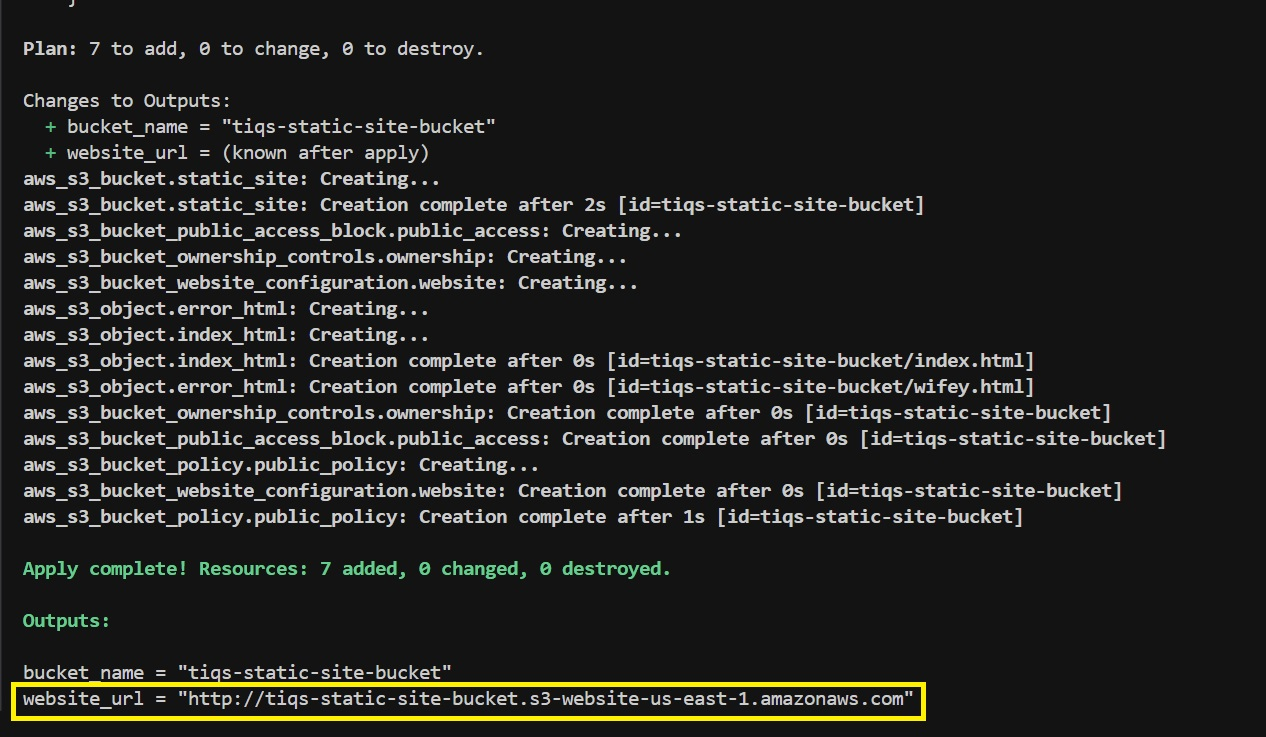
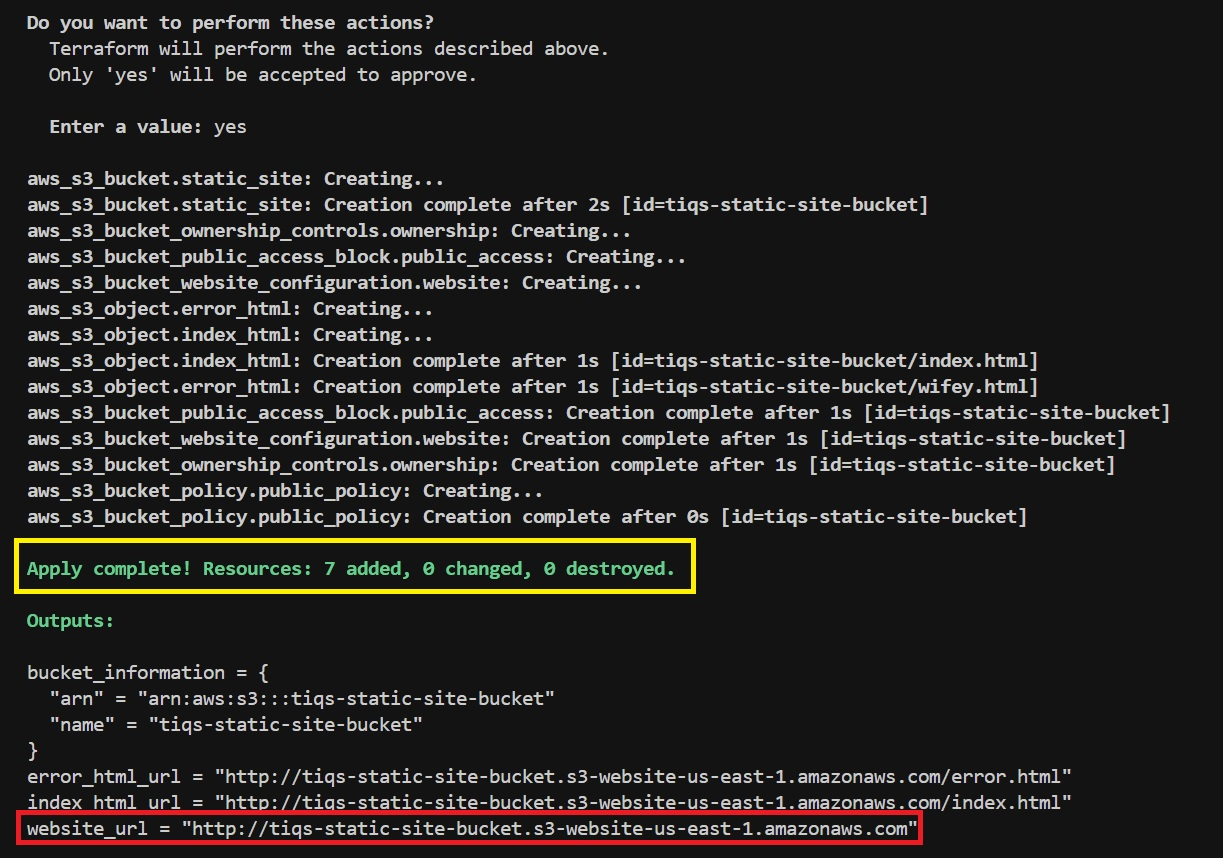
third commit

Changed region(s): [[0.0, 0.1248, 0.9632, 0.9986], [0.0, 0.0, 0.4971, 0.0936]]

diff --git a/README.md b/README.md
@@ -14,6 +14,10 @@
 
 This project deploys a fully animated **Argentina-themed static website** to **AWS S3** using **Terraform**, featuring background music, an interactive carousel, shimmering text, and glowing flag-color effects. The deployment follows modern AWS best practices including **Bucket Owner Enforced** (no ACLs) and fully automated provisioning using Infrastructure as Code.
 
+![diagram.png](/Screenshots/diagram.png)
+
+---
+
 ### 🌍 Why S3 Static Websites Matter
 
 S3 is one of the most effective platforms for hosting static websites because it provides:
@@ -67,6 +71,17 @@ terraform apply -auto-approve
 ![terraform-plan.jpg](/Screenshots/terraform-plan.jpg)
 ![terraform-apply.jpg](/Screenshots/terraform-apply.jpg)
 
+```plaintext
+bucket_information = {
+  "arn" = "arn:aws:s3:::tiqs-static-site-bucket"
+  "name" = "tiqs-static-site-bucket"
+}
+
+error_html_url = "http://tiqs-static-site-bucket.s3-website-us-east-1.amazonaws.com/error.html"
+index_html_url = "http://tiqs-static-site-bucket.s3-website-us-east-1.amazonaws.com/index.html"
+website_url = "http://tiqs-static-site-bucket.s3-website-us-east-1.amazonaws.com"
+```
+
 ---
 
 ## ⚙ Terraform Architecture
@@ -85,6 +100,9 @@ terraform apply -auto-approve
 
 - **S3 Static Website**  
   ![Argentina Website Homepage](/Screenshots/s3-static-site.jpg)
+
+- **S3 Error Page**  
+  ![Website Error Page](/Screenshots/s3-error-html.jpg)
 
 - **AWS S3 Bucket**  
   ![S3 Bucket](/Screenshots/aws-s3-bucket.jpg)
